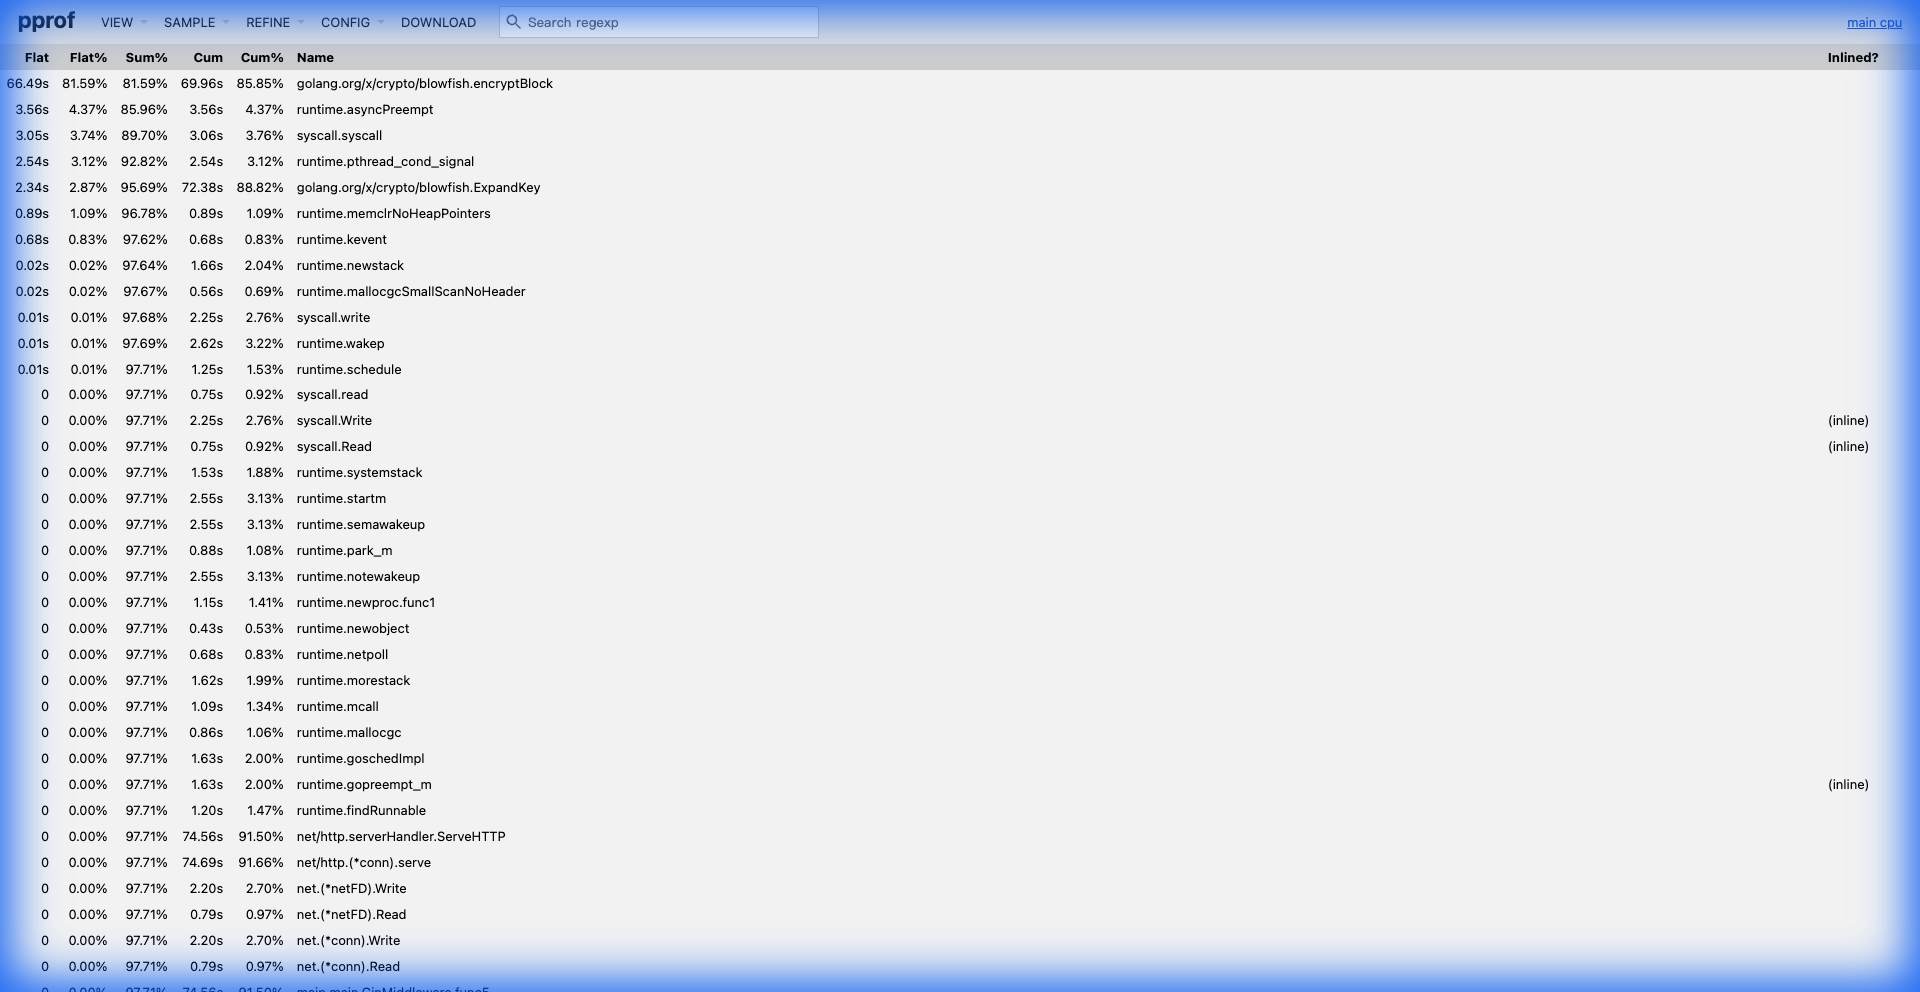
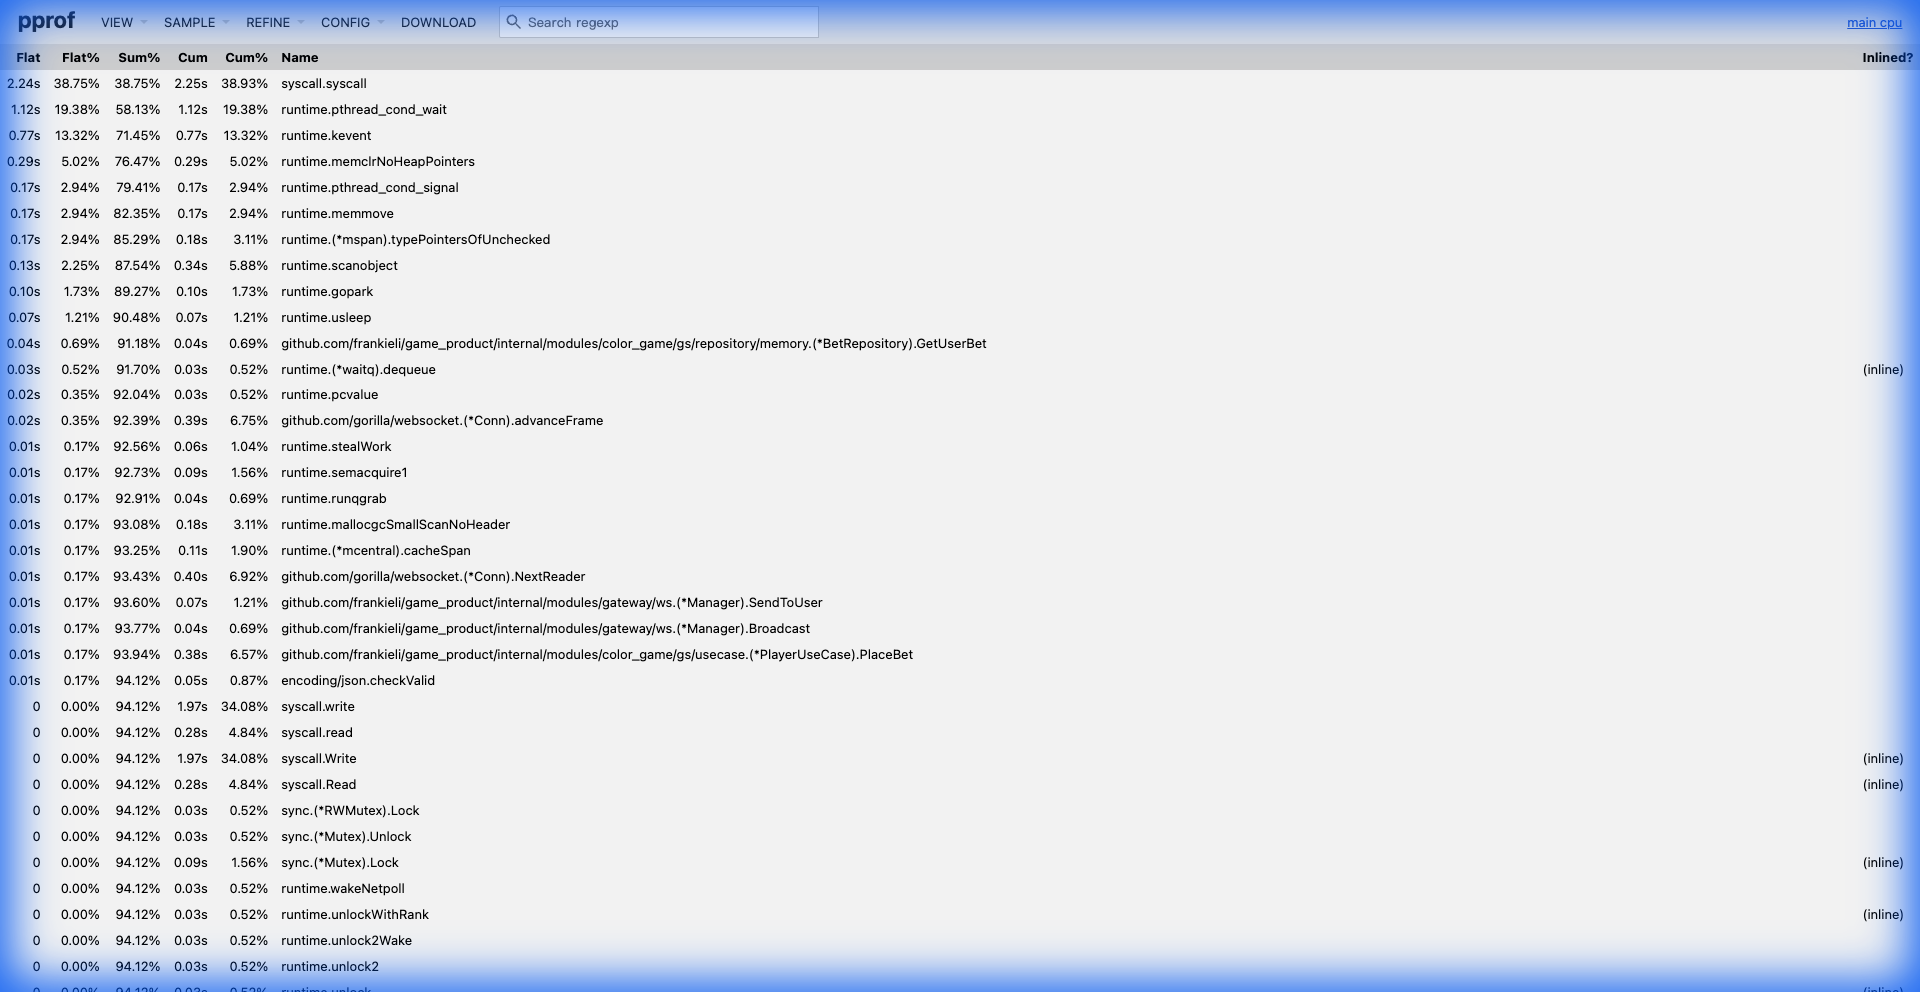
docs(benchmark): update 'After Optimization' analysis with latest pprof data showing network IO load

diff --git a/docs/performance/color_game_benchmark.md b/docs/performance/color_game_benchmark.md
@@ -150,11 +150,14 @@
 ![pprof_top_list_json](images/pprof_top_list_json.png)
 
 **對比分析**：
-1.  **Syscall 消失**: `syscall.syscall` 的 Flat 佔比從 **50% 驟降至 0.45%**。這證明 I/O 阻塞已完全消除。
-2.  **業務邏輯回歸**:
-    *   現在的 CPU 熱點是 `blowfish.EncryptBlock` (20.91%)，這是處理用戶登入時的密碼加密邏輯。
-    *   這是一個健康的 **CPU Bound** 狀態，說明系統正在全力處理業務請求，而不是在等待 I/O。
-3.  **結果**: `Connection Reset` 錯誤消失，系統能夠穩定支撐 9000+ CCU。
+1.  **日誌阻塞消失**: Top 列表中不再看到 `zerolog` 或 `ConsoleWriter` 的身影，證明我們成功消除了日誌格式化帶來的 CPU 和 I/O 負擔。
+2.  **Syscall 依然高 (38.75%)，但性質變了**:
+    *   `syscall.syscall` 仍然佔據高位，但這是由 **網路 I/O (WebSocket)** 驅動的，而非日誌。
+    *   證據：`runtime.kevent` (13.32%) 和 WebSocket 相關函數 (`advanceFrame`, `NextReader`) 的 Cum 佔比顯著上升。
+3.  **業務邏輯回歸**:
+    *   CPU 熱點轉移到了 `blowfish.EncryptBlock` (登入加密) 和 `PlayerUseCase.PlaceBet` (下注邏輯)。
+    *   這是一個健康的狀態，說明系統正在全力處理真實的業務請求。
+4.  **結果**: `Connection Reset` 錯誤消失，系統能夠穩定支撐 9000+ CCU。
 
 ---
 
